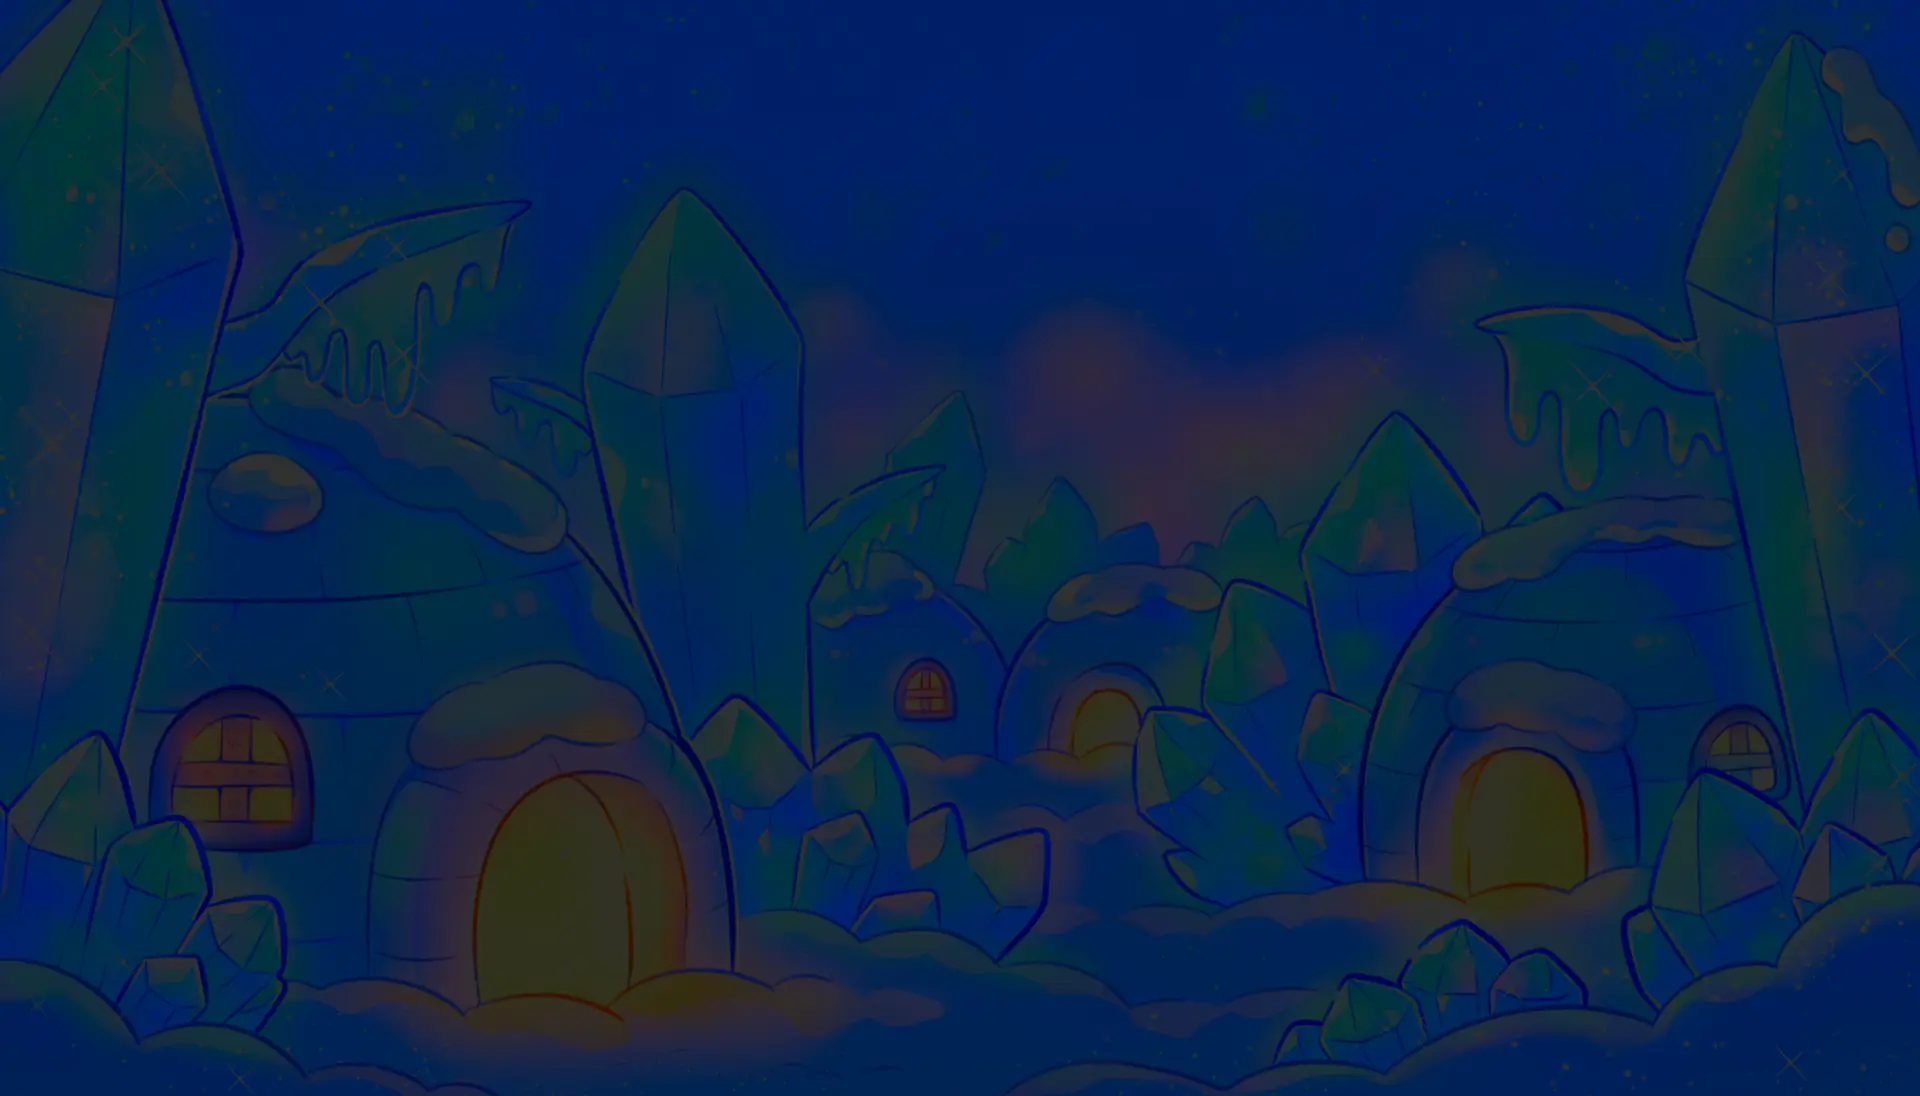
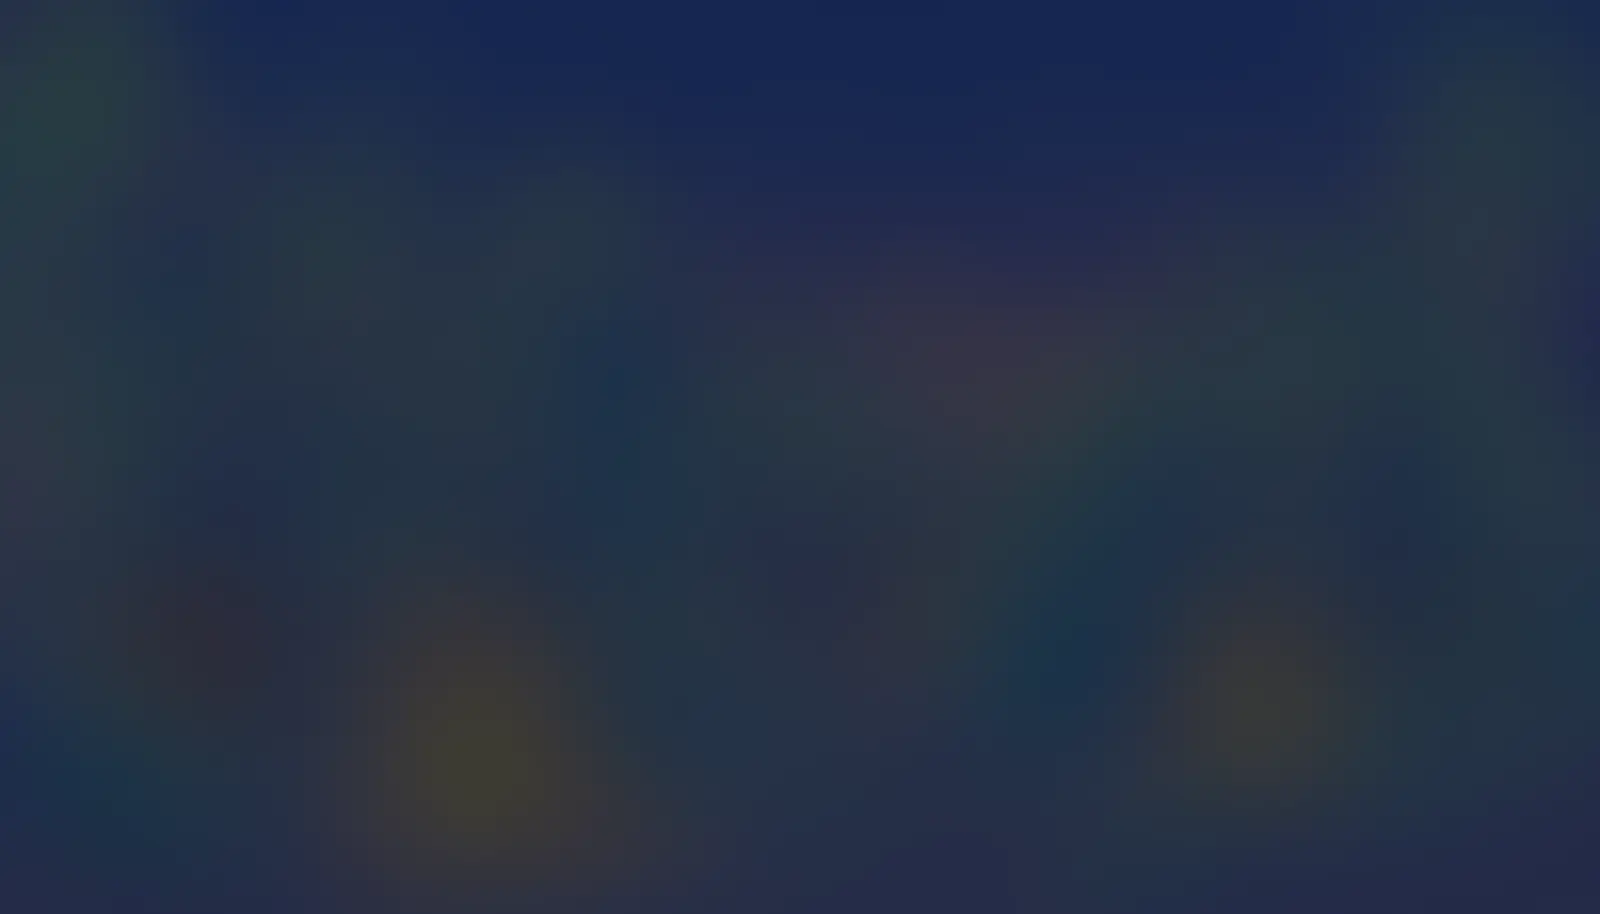
fix: 背景图改成模糊色块 + 灰色蒙版，去掉「诡异」感
上一版把插画压暗后直接铺上，形状还在 —— 冰屋与晶柱的黑色描边没掉、
发光门窗变成怪亮的斑点、风景画的透视又和排版打架，看着很不对劲。

换一种做法：
- 生成时重度模糊（blur 60）：形状糊掉只剩色块，读起来像一层冰蓝柔光；
  体积顺带从 50 KB 降到 5 KB
- 饱和度压到 0.5，向站点灰蓝（#12222e）靠，避免蓝得发艳
- 加一层半透明灰色蒙版（9%~11%）—— 给图片「磨砂」感，明暗过渡更平
- 保留自上而下的渐隐遮罩，正文密集的下半部回到干净的深色底

蒙版浓度是算过的：9% 时合成亮度 6.0%，正文 8.1:1、次要文字 4.8:1；
到 12% 次要文字就掉到 4.4:1 了，所以卡在 9% 附近。

diff --git a/src/styles/global.css b/src/styles/global.css
@@ -60,18 +60,23 @@ body {
 /*
  * 背景图。
  *
- * 那张冰晶村落的插画平均亮度 74%，而全站正文是直接压在背景上的 ——
- * 原样铺上去字就看不清了。压暗的活儿全部在文件里做完（生成时 brightness 0.22），
- * CSS 这边不再叠罩层 —— 压两遍会把图压到和纯色底一样黑，等于白放。
+ * 那张冰晶村落的插画直接铺在正文底下会「诡异」：压暗之后冰屋与晶柱的黑色
+ * 描边还在，发光门窗变成怪亮的斑点，而且风景画的透视和排版互相打架。
+ * 现在分四步处理：
  *
- * 实测：压暗后平均亮度约 2.5%、最亮处约 6.3%，正文对比度 7.8:1、
- * 次要文字 4.7:1，都还在可读范围内；比原来的纯色底（1.4%）亮一点，
- * 暗处的冰晶轮廓看得见。
+ *   1. 生成时重度模糊（blur 60）—— 形状彻底糊掉，只剩色块，
+ *      读起来像一层冰蓝柔光而不是一张压在字底下的画；体积也从 50 KB 掉到 5 KB。
+ *   2. 饱和度压低（0.5），向站点的灰蓝（#12222e）靠，避免蓝得发艳。
+ *   3. 一层半透明灰色蒙版（9%）—— 就是给图片加「磨砂」感的那一步，
+ *      让明暗过渡更平、更像设计好的底纹，而不是一张被压暗的画。
+ *      上限卡在 9%：再浓次要文字对比度就掉到 4.5:1 以下了。
+ *   4. 自上而下的渐隐遮罩 —— 只在页面上半部有存在感，往下淡出，
+ *      正文密集的区域回到干净的深色底。
+ *
+ * 实测：合成后平均亮度 6.0%，正文对比度 8.1:1、次要文字 4.8:1。
  *
  * 用固定定位的伪元素而不是 background-attachment: fixed ——
- * iOS Safari 对后者支持很差（会当成 scroll），那样长页面里图会被拉开变形。
- *
- * z-index: -1 让它落在 body 背景之上、内容之下。
+ * iOS Safari 对后者支持很差（会当成 scroll），长页面里图会被拉开变形。
  */
 body::before {
 	content: '';
@@ -80,14 +85,32 @@ body::before {
 	z-index: -1;
 	background-image:
 		radial-gradient(1200px 460px at 50% -160px, rgba(175, 255, 255, 11%), transparent 72%),
+		linear-gradient(rgba(150, 165, 175, 0.09), rgba(150, 165, 175, 0.11)),
 		url('/bg.webp');
 	background-size:
+		auto,
 		auto,
 		cover;
 	background-position:
 		center top,
-		center;
+		center,
+		center top;
 	background-repeat: no-repeat;
+	/* 上半部有、往下淡出 */
+	-webkit-mask-image: linear-gradient(
+		to bottom,
+		#000 0%,
+		rgba(0, 0, 0, 0.72) 32%,
+		rgba(0, 0, 0, 0.32) 58%,
+		transparent 86%
+	);
+	mask-image: linear-gradient(
+		to bottom,
+		#000 0%,
+		rgba(0, 0, 0, 0.72) 32%,
+		rgba(0, 0, 0, 0.32) 58%,
+		transparent 86%
+	);
 }
 
 /* 打印时不要背景图，省墨也更清楚 */
